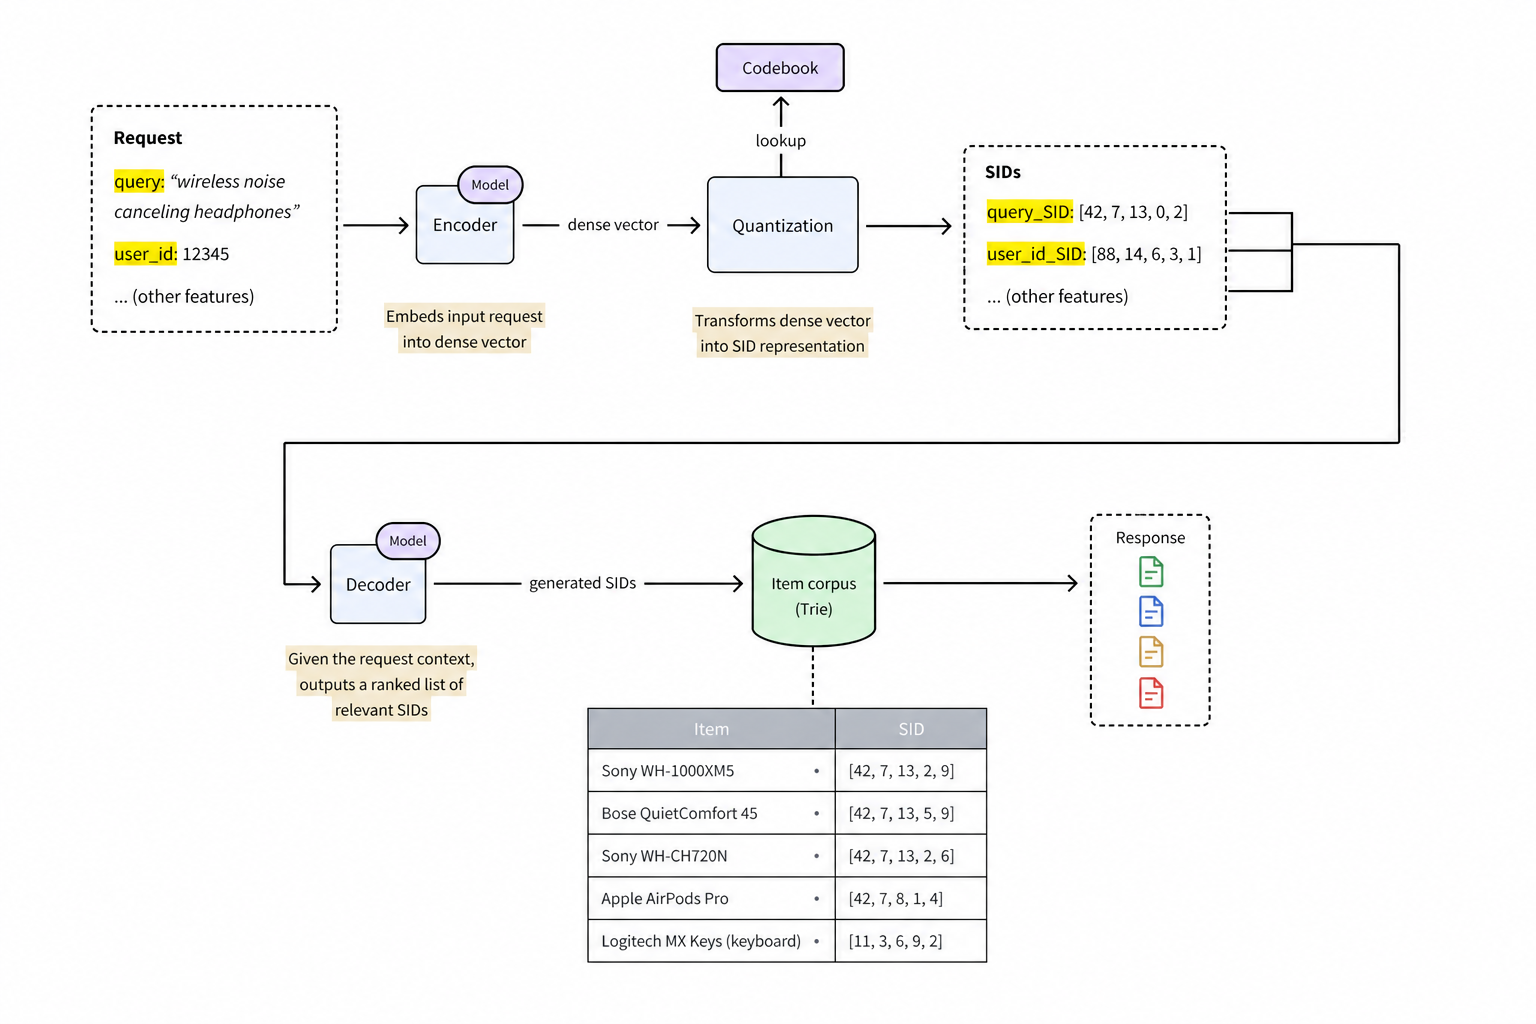
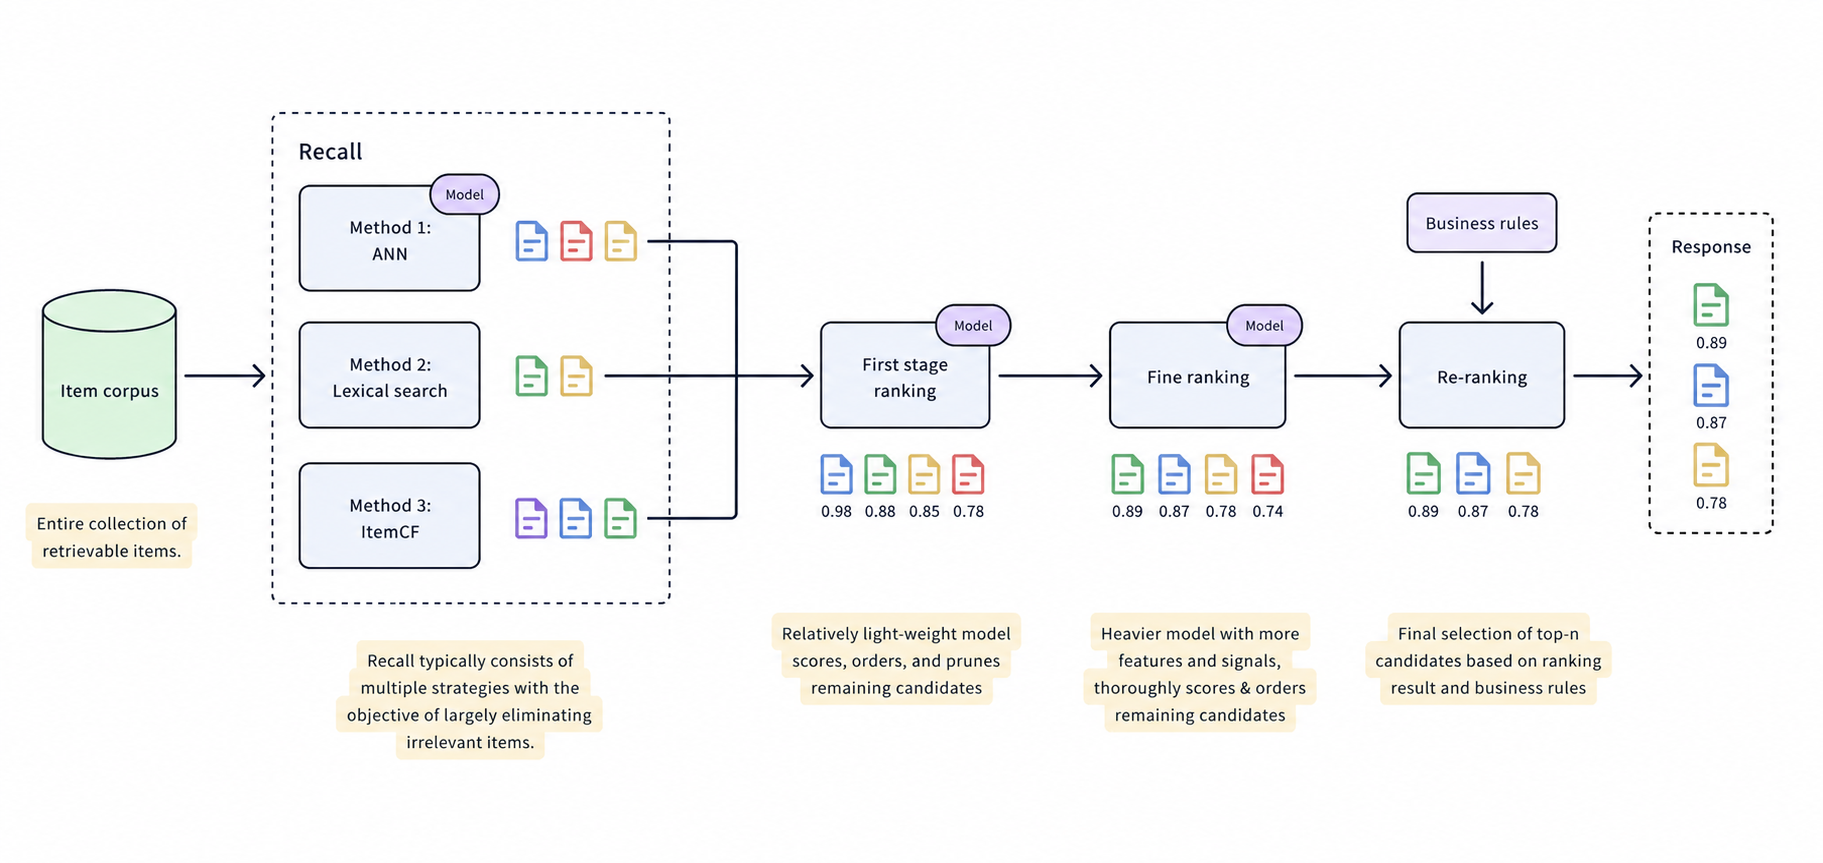
feat: image captions in writings + replace gr_flow image

diff --git a/frontend/src/components/WritingRenderer.tsx b/frontend/src/components/WritingRenderer.tsx
@@ -119,19 +119,26 @@ export default function WritingRenderer({ content }: Props) {
     hr: () => (
       <hr className="my-10 border-none h-px bg-gradient-to-r from-transparent via-gray-200 dark:via-gray-700 to-transparent" />
     ),
-    img: ({ src, alt }) => (
-      <button
-        type="button"
-        onClick={() => setLightbox({ src: src ?? "", alt: alt ?? "" })}
-        className="block w-full my-6 cursor-zoom-in focus:outline-none group"
-      >
-        {/* eslint-disable-next-line @next/next/no-img-element */}
-        <img
-          src={src}
-          alt={alt ?? ""}
-          className="rounded-lg border border-gray-100 dark:border-gray-800 shadow-card w-full transition-opacity group-hover:opacity-90"
-        />
-      </button>
+    img: ({ src, alt, title }) => (
+      <figure className="my-6">
+        <button
+          type="button"
+          onClick={() => setLightbox({ src: src ?? "", alt: alt ?? "" })}
+          className="block w-full cursor-zoom-in focus:outline-none group"
+        >
+          {/* eslint-disable-next-line @next/next/no-img-element */}
+          <img
+            src={src}
+            alt={alt ?? ""}
+            className="rounded-lg border border-gray-100 dark:border-gray-800 shadow-card w-full transition-opacity group-hover:opacity-90"
+          />
+        </button>
+        {title && (
+          <figcaption className="mt-2 text-center font-mono text-[11px] text-gray-400 dark:text-gray-500 italic">
+            {title}
+          </figcaption>
+        )}
+      </figure>
     ),
     table: ({ children }) => (
       <div className="overflow-x-auto my-6">
